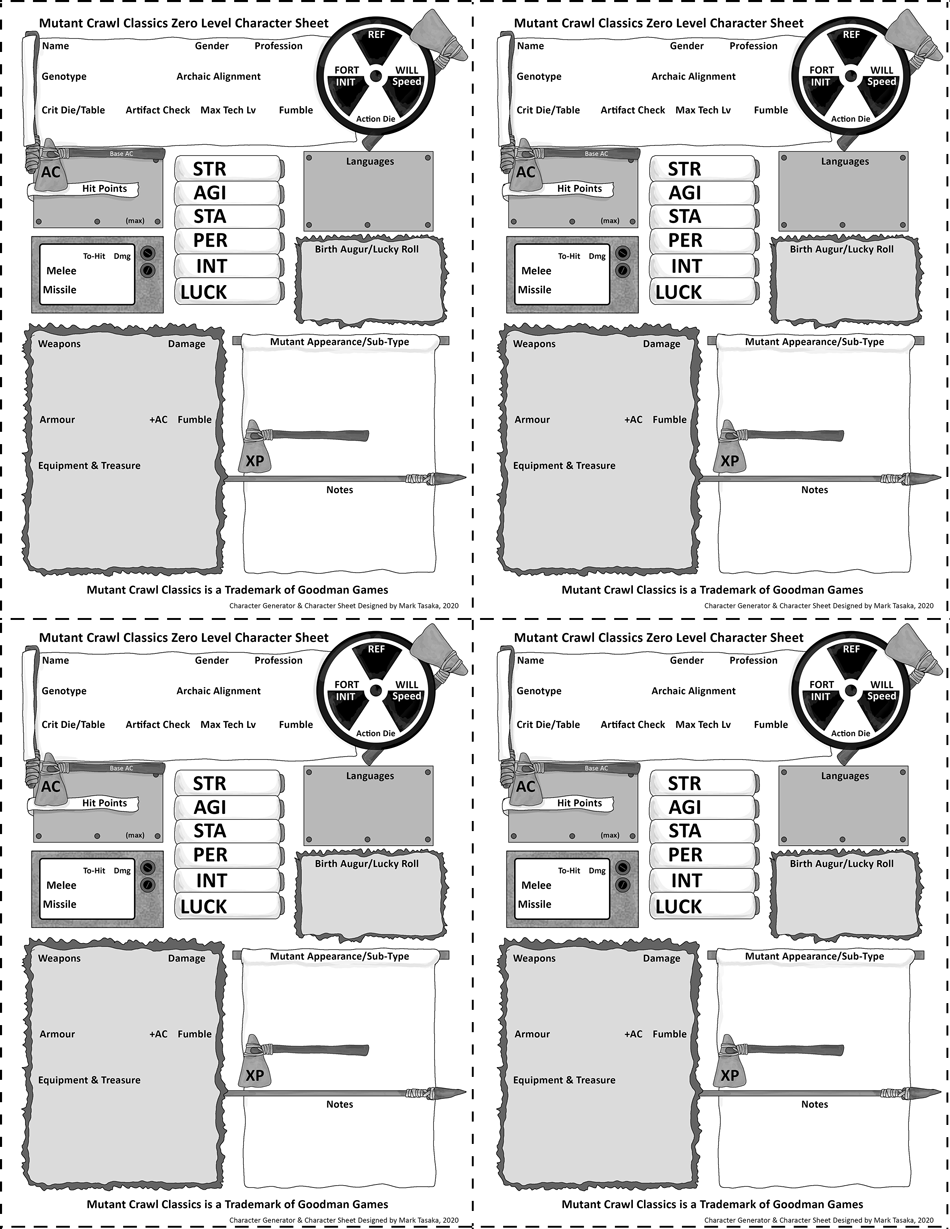
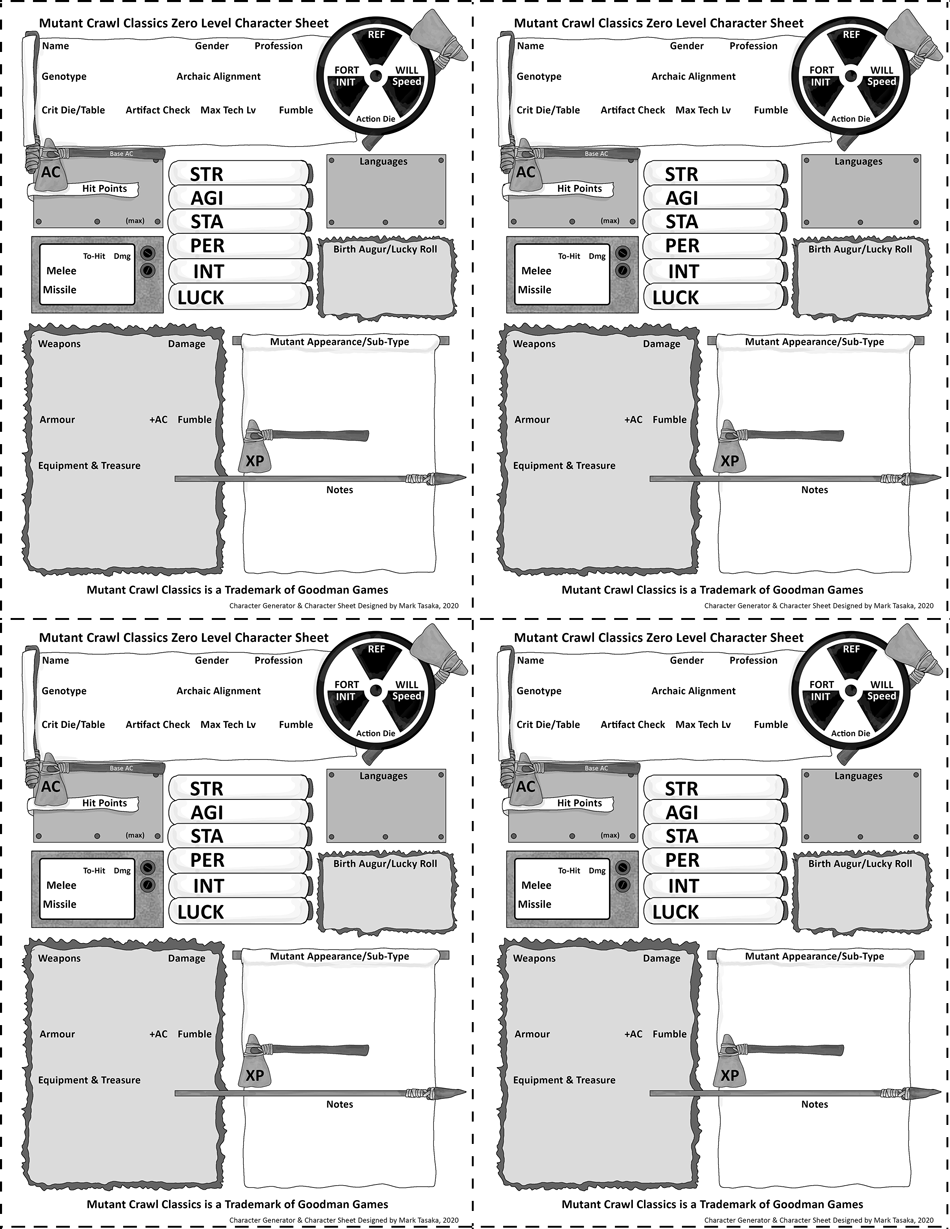
Update 1.02

diff --git a/zeroLv4/css/mcc_zero_characters.css b/zeroLv4/css/mcc_zero_characters.css
@@ -51,109 +51,109 @@ Character 1
 
 #name0, #name1, #name2, #name3{
     position: absolute;
-    top: 68px;
+    top: 63px;
     left: 55px;
 }
 
 
 #profession0, #profession1, #profession2, #profession3{
     position: absolute;
-    top: 113px;
-    left: 55px;
+    top: 63px;
+    left: 270px;
 }
 
 
 #alignment0, #alignment1, #alignment2, #alignment3{
     position: absolute;
-    top: 68px;
-    left: 320px;
+    top: 96px;
+    left: 195px;
 }
 
 
 #sex0, #sex1, #sex2, #sex3{
     position: absolute;
-    top: 68px;
-    left: 245px;
+    top: 63px;
+    left: 210px;
 }
 
 
 #languages0, #languages1, #languages2, #languages3{
     position: absolute;
-    top: 575px;
-    left: 55px;
-    font-size: 0.8em;
-    width: 120px;
+    top: 185px;
+    left:  335px;
+	width: 120px;
+    font-size: 0.85em;
 }
 
 
 
 #strength0, #strength1, #strength2, #strength3{
     position:absolute;
-    top: 176px;
+    top: 180px;
     left: 250px;
 	font-size: 1.1em;
 }
 
 #strengthMod0, #strengthMod1, #strengthMod2, #strengthMod3{
     position:absolute;
-    top: 176px;
-    left: 275px;
+    top: 180px;
+    left: 285px;
 	font-size: 1.1em;
 }
 
 #agility0, #agility1, #agility2, #agility3{
     position:absolute;
-    top: 202px;
+    top: 206px;
     left: 250px;
 	font-size: 1.1em;
 }
 
 #agilityMod0, #agilityMod1, #agilityMod2, #agilityMod3{
     position:absolute;
-    top: 202px;
-    left: 275px;
+    top: 206px;
+    left: 285px;
 	font-size: 1.1em;
 }
 
 #stamina0, #stamina1, #stamina2, #stamina3{
     position:absolute;
-    top: 228px;
+    top: 232px;
     left: 250px;
 	font-size: 1.1em;
 }
 
 #staminaMod0, #staminaMod1, #staminaMod2, #staminaMod3{
     position:absolute;
-    top: 228px;
-    left: 275px;
+    top: 232px;
+    left: 285px;
 	font-size: 1.1em;
 }
 
 #personality0, #personality1, #personality2, #personality3{
     position:absolute;
-    top: 252px;
+    top: 257px;
     left: 250px;
 	font-size: 1.1em;
 }
 
 #personalityMod0, #personalityMod1, #personalityMod2, #personalityMod3{
     position:absolute;
-    top: 252px;
-    left: 275px;
+    top: 257px;
+    left: 285px;
 	font-size: 1.1em;
 }
 
 #intelligence0, #intelligence1, #intelligence2, #intelligence3{
     position:absolute;
-    top: 280px;
+    top: 283px;
     left: 250px;
 	font-size: 1.1em;
 }
 
 #intelligenceMod0, #intelligenceMod1, #intelligenceMod2, #intelligenceMod3{
     position:absolute;
-    top: 280px;
-    left: 275px;
+    top: 283px;
+    left: 285px;
 	font-size: 1.1em;
 }
 
@@ -161,22 +161,22 @@ Character 1
 
 #luck0, #luck1, #luck2, #luck3{
     position:absolute;
-    top: 306px;
+    top: 310px;
     left: 250px;
 	font-size: 1.1em;
 }
 
 #luckMod0, #luckMod1, #luckMod2, #luckMod3{
     position:absolute;
-    top: 306px;
-    left: 275px;
+    top: 310px;
+    left: 285px;
 	font-size: 1.1em;
 }
 
 
 #birthAugur0, #birthAugur1, #birthAugur2, #birthAugur3{
     position: absolute;
-    top: 160px;
+    top: 265px;
     left:  335px;
 	width: 120px;
     font-size: 0.85em;
@@ -300,8 +300,8 @@ Character 1
 
 #fumbleDie0, #fumbleDie1, #fumbleDie2, #fumbleDie3{
     position: absolute;
-    top: 113px;
-    left: 340px;
+    top: 130px;
+    left: 5px;
 	font-size: 1.2em;
 }
 
@@ -309,8 +309,8 @@ Character 1
 
 #critDie0, #critDie1, #critDie2, #critDie3{
     position: absolute;
-    top: 113px;
-    left: 260px;
+    top: 130px;
+    left: 55px;
 	font-size: 1.2em;
 }
 
@@ -381,9 +381,10 @@ Character 1
 
 #dieRollMethod0, #dieRollMethod1, #dieRollMethod2, #dieRollMethod3{
     position: absolute;
-    top: 592px;
-    left:  208px;
-	font-size: 0.6em;
+    top: 585px;
+    left:  272px;
+    font-size: 0.6em;
+    width: 190px;
 }
 
 
@@ -392,5 +393,5 @@ Character 1
     top: 460px;
     left:  220px;
 	width: 210px;
-	font-size: 0.8em;
+    font-size: 0.8em;
 }
